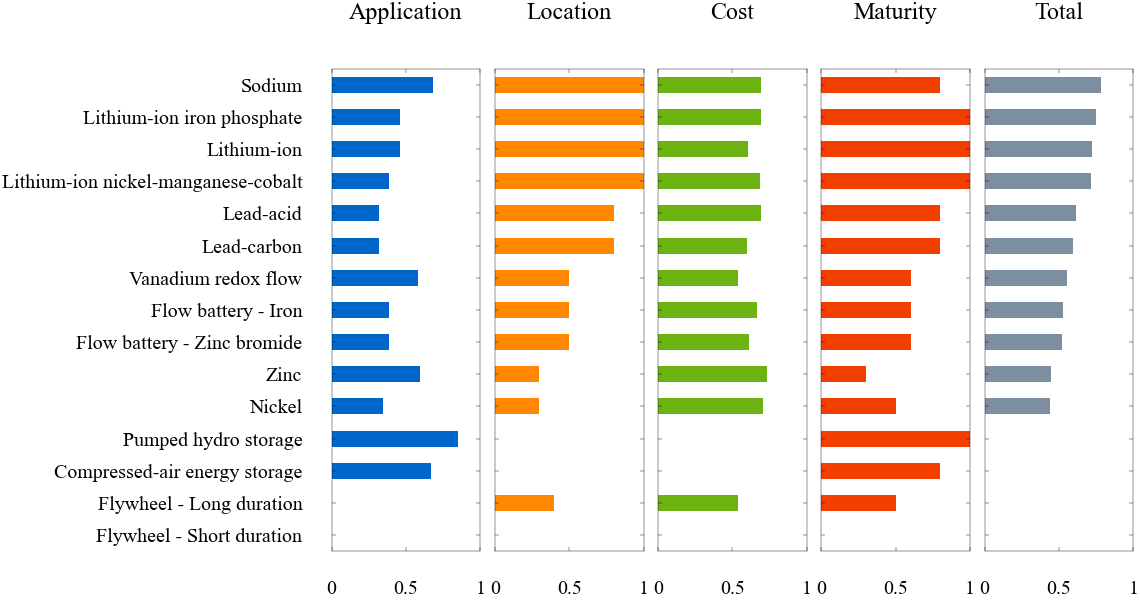
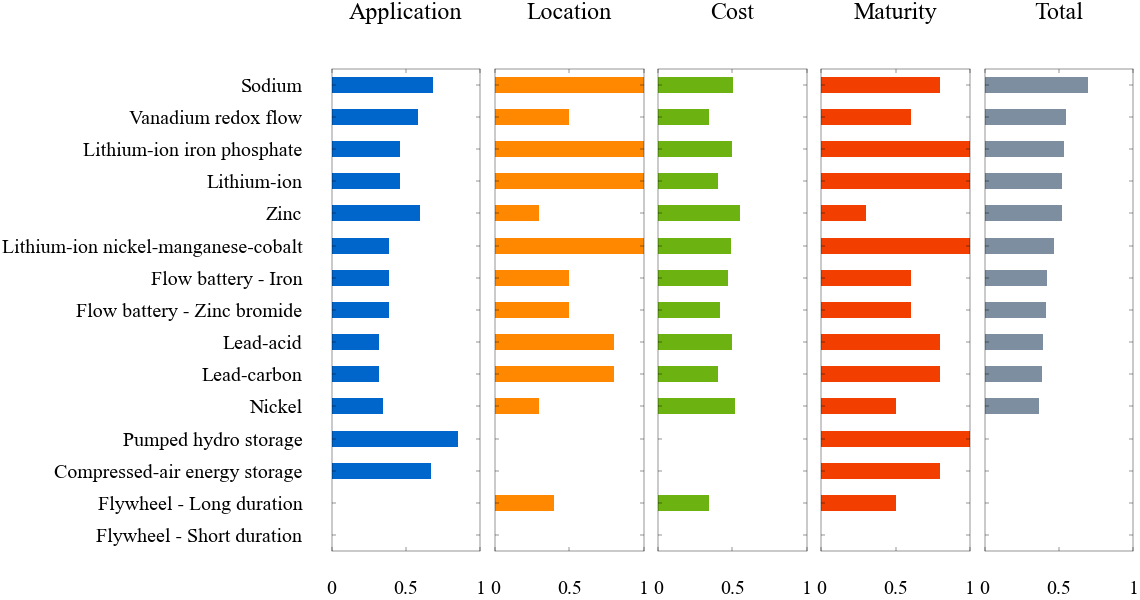
Update function for geometric mean and remove tex symbols

diff --git a/es_gui/apps/tech_selection/analysis.py b/es_gui/apps/tech_selection/analysis.py
@@ -3,7 +3,6 @@ import re
 import numpy as np
 import pandas as pd
 import matplotlib.pyplot as plt
-from scipy.stats.mstats import gmean
 from es_gui.apps.tech_selection import fFeasibility, fPlots, fAux
 
 from kivy.app import App
@@ -66,8 +65,8 @@ def perform_tech_selection(selections, target_cost_kWh, target_cost_kW):
     all_app_scores['Score for duration'] = tech_data_lowest_duration[['Discharge duration (hours)']].apply(normalize_by_max)
     all_app_scores['Score for cycle life'] = tech_data_lowest_duration[['Cycle life (# of cycles)']].apply(normalize_by_max)
     all_app_scores['Score for efficiency'] = tech_data_lowest_duration[['Round-trip efficiency (%)']].apply(normalize_by_max)
-    all_app_scores['Application score'] = all_app_scores.apply(gmean, axis='columns')
-    # all_app_scores.fillna(value=0, inplace=True)
+    all_app_scores.fillna(value=0, inplace=True)
+    all_app_scores['Application score'] = fAux.geom_mean(all_app_scores)
 
     # Compute 'Total score' for all feasible technologies (based on application, location, cost, and maturity)
     all_final_scores = pd.DataFrame(index=all_feasibility.index)
@@ -75,8 +74,8 @@ def perform_tech_selection(selections, target_cost_kWh, target_cost_kW):
     all_final_scores['Location score'] = tech_data_lowest_duration[f'Score for {grid_location}']
     all_final_scores['Cost score'] = compute_cost_scores(tech_data_lowest_duration, system_size, app_type, target_cost)
     all_final_scores['Maturity score'] = tech_data_lowest_duration['Tech readiness score']
-    all_final_scores['Total score'] = all_final_scores.apply(gmean, axis='columns')
     all_final_scores.fillna(value=0, inplace=True)
+    all_final_scores['Total score'] = fAux.geom_mean(all_final_scores)
     all_final_scores.sort_values(by=['Total score', 'Application score', 'Location score', 'Cost score', 'Maturity score'], inplace=True)
 
     # Plot: feasibility heatmap

diff --git a/es_gui/apps/tech_selection/results_viewer.py b/es_gui/apps/tech_selection/results_viewer.py
@@ -1,12 +1,9 @@
 from __future__ import absolute_import
 
 import os
-#import textwrap
-
-#import matplotlib as mpl
 import matplotlib.pyplot as plt
 import pandas as pd
-from scipy.stats.mstats import gmean
+from es_gui.apps.tech_selection import fAux
 
 from kivy.app import App
 from kivy.uix.screenmanager import Screen
@@ -113,18 +110,17 @@ class TechSelectionRanking(Screen):
     def update_scores(self):
         """"""
 
-        test_aux = self.dfRanking[['Application score', 'Location score', 'Cost score', 'Maturity score']]#.values
+        test_aux = pd.DataFrame(self.dfRanking[['Application score', 'Location score', 'Cost score', 'Maturity score']])
 
         xx = test_aux['Cost score'].values
-        old_target = 1500 # FIX!!!
+        old_target = 1500
         new_target = float(self.target_cost_value.text)
-        bb = new_target / (old_target*(1-xx)/xx + new_target)
-        # print(bb)
+        #bb = new_target / (old_target*(1-xx)/xx + new_target)
+        bb = new_target*xx / (old_target*(1-xx) + new_target*xx) # Avoid "division by zero" warnings
         test_aux['Cost score'] = bb
-        # print(test_aux)
         self.dfRanking['Cost score'] = bb
 
-        self.dfRanking['Total score'] = gmean(test_aux, axis=1, weights=[self.app_slider.value, self.location_slider.value, self.cost_slider.value, self.maturity_slider.value])
+        self.dfRanking['Total score'] = fAux.geom_mean(test_aux, weights=[self.app_slider.value, self.location_slider.value, self.cost_slider.value, self.maturity_slider.value])
         self.dfRanking.fillna(value=0, inplace=True)
         self.dfRanking.sort_values(by=['Total score', 'Application score', 'Location score', 'Cost score', 'Maturity score'], inplace=True)
 

diff --git a/es_gui/apps/tech_selection/fPlots.py b/es_gui/apps/tech_selection/fPlots.py
@@ -1,9 +1,8 @@
 import os
 import numpy as np
-#import matplotlib as mpl
 import matplotlib.pyplot as plt
 import seaborn as sns
-#import string
+
 color_red, color_blue = np.array([247, 140, 102])/255, np.array([102, 163, 224])/255
 cBlue = np.array([0, 102, 204])/255
 cAmber = np.array([255, 136, 0])/255
@@ -12,7 +11,6 @@ cOrange = np.array([242, 63, 0])/255
 cBlueGrey = np.array([125, 142, 160])/255
 
 plt.style.use(os.path.join('es_gui', 'apps', 'tech_selection', 'mpl_style_presentations.mplstyle'))
-
 
 
 def plot_table_feasibility(df_data, figsize=(7, 5),
@@ -28,8 +26,8 @@ def plot_table_feasibility(df_data, figsize=(7, 5),
     # Create feasibility table (as a heatmap plot)
     fig, ax = plt.subplots(figsize=figsize)
     sns.heatmap(df_data, cmap=cmap, cbar=False, linewidths=0.1,
-                annot=df_data.applymap(lambda x: '\ding{52}' if x == 1 else '\ding{56}'),
-                fmt='s', annot_kws={'fontsize': 2, 'usetex': True},
+                annot=df_data.applymap(lambda x: 'Yes' if x == 1 else 'No'),
+                fmt='s', annot_kws={'fontsize': 2},
                 xticklabels=xticklabels, yticklabels=yticklabels, ax=ax)
 
     # Update settings for x and y labels

diff --git a/es_gui/apps/tech_selection/fAux.py b/es_gui/apps/tech_selection/fAux.py
@@ -1,3 +1,6 @@
+import numpy as np
+
+
 def pdSeriesIdxWhereTrue(pdSeries):
     """
     Return the indexes of a pandas series for which the corresponding values are True (boolean).
@@ -14,3 +17,13 @@ def pdSeriesIdxWhereTrue(pdSeries):
     """
     
     return pdSeries.index[pdSeries].tolist()
+
+    
+def geom_mean(vals, weights=None):
+    
+    if weights is None:
+        weights = np.ones(vals.shape[1])
+        
+    gmean = np.prod(vals**weights, axis=1) ** (1/np.sum(weights))
+    
+    return gmean
